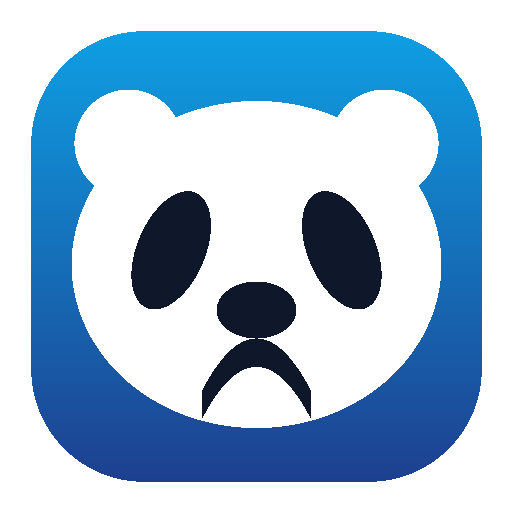
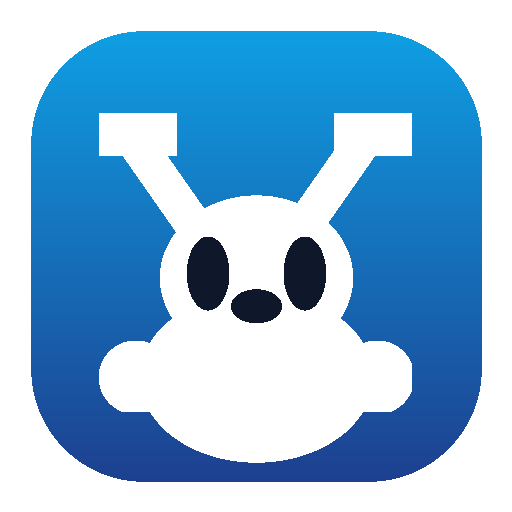
feat: design full sloth body hanging from menu bar top

Changed region(s): [[0.125, 0.1562, 0.875, 0.9062]]

diff --git a/electron/generate_icons.py b/electron/generate_icons.py
@@ -24,8 +24,8 @@ def create_png(width: int, height: int, rgba_bytes: bytes) -> bytes:
     png += chunk(b'IEND', b'')
     return png
 
-def draw_sloth_template(size: int) -> bytes:
-    """Draw a clean, cute sloth face template for macOS menu bar (black pixels + alpha)."""
+def draw_hanging_sloth_template(size: int) -> bytes:
+    """Draw a clean, cute full-body sloth hanging upside down from the top edge."""
     pixels = bytearray(size * size * 4)
     scale = size / 18.0
 
@@ -38,66 +38,83 @@ def draw_sloth_template(size: int) -> bytes:
             pixels[idx + 3] = alpha
 
     cx = size / 2.0 - 0.5
-    cy = size / 2.0
-    rx = 7.0 * scale
-    ry = 6.2 * scale
 
-    # Sloth head: rounded oval silhouette
+    # 1. Arms reaching up to corners (y=0..6)
+    for y in range(int(7 * scale)):
+        # Left arm diagonal
+        lx = int(2.0 * scale + y * 0.7)
+        for dx in range(int(2.4 * scale)):
+            set_pixel(lx + dx, y, 255)
+        # Right arm diagonal
+        rx = int(size - 3.0 * scale - y * 0.7)
+        for dx in range(int(2.4 * scale)):
+            set_pixel(rx - dx, y, 255)
+
+    # 2. Claws gripping the top edge (y=0..1)
+    for x in range(int(1.5 * scale), int(5.0 * scale)):
+        set_pixel(x, 0, 255)
+        set_pixel(x, 1, 255)
+    for x in range(int(size - 5.0 * scale), int(size - 1.5 * scale)):
+        set_pixel(x, 0, 255)
+        set_pixel(x, 1, 255)
+
+    # 3. Head in center (y=4..11)
     for y in range(size):
         for x in range(size):
-            dx = (x - cx) / rx
-            dy = (y - cy) / ry
+            dx = (x - cx) / (4.2 * scale)
+            dy = (y - 7.5 * scale) / (3.6 * scale)
             if dx * dx + dy * dy <= 1.0:
                 set_pixel(x, y, 255)
 
-    # Sloth ears: cute small bumps on top left and right
+    # 4. Body / belly hanging below head (y=9..16)
     for y in range(size):
         for x in range(size):
-            if math.hypot(x - (cx - 5.0 * scale), y - (cy - 4.5 * scale)) <= 2.0 * scale:
-                set_pixel(x, y, 255)
-            if math.hypot(x - (cx + 5.0 * scale), y - (cy - 4.5 * scale)) <= 2.0 * scale:
+            dx = (x - cx) / (5.0 * scale)
+            dy = (y - 12.8 * scale) / (3.8 * scale)
+            if dx * dx + dy * dy <= 1.0:
                 set_pixel(x, y, 255)
 
-    # Negative space cutouts:
-    # 1. Iconic sloth eye stripes (angled down-outwards)
+    # 5. Feet / hind limbs at sides (y=11..15)
+    for y in range(int(11 * scale), int(15 * scale)):
+        for x in range(int(1.5 * scale), int(4.5 * scale)):
+            if math.hypot(x - 3.5 * scale, y - 13.0 * scale) <= 1.8 * scale:
+                set_pixel(x, y, 255)
+        for x in range(int(size - 4.5 * scale), int(size - 1.5 * scale)):
+            if math.hypot(x - (size - 3.5 * scale), y - 13.0 * scale) <= 1.8 * scale:
+                set_pixel(x, y, 255)
+
+    # 6. Negative space cutouts (eye mask stripes, nose, armpit gaps)
     for y in range(size):
         for x in range(size):
-            # Left eye area
-            lx = x - (cx - 3.2 * scale)
-            ly = y - (cy - 0.5 * scale)
-            rot_lx = lx * math.cos(0.4) + ly * math.sin(0.4)
-            rot_ly = -lx * math.sin(0.4) + ly * math.cos(0.4)
-            if (rot_lx / (1.2 * scale)) ** 2 + (rot_ly / (2.2 * scale)) ** 2 <= 1.0:
+            # Left eye mask
+            lmx = x - (cx - 2.2 * scale)
+            lmy = y - (7.2 * scale)
+            if (lmx / (1.0 * scale)) ** 2 + (lmy / (1.8 * scale)) ** 2 <= 1.0:
                 set_pixel(x, y, 0)
 
-            # Right eye area
-            rx = x - (cx + 3.2 * scale)
-            ry = y - (cy - 0.5 * scale)
-            rot_rx = rx * math.cos(-0.4) + ry * math.sin(-0.4)
-            rot_ry = -rx * math.sin(-0.4) + ry * math.cos(-0.4)
-            if (rot_rx / (1.2 * scale)) ** 2 + (rot_ry / (2.2 * scale)) ** 2 <= 1.0:
+            # Right eye mask
+            rmx = x - (cx + 2.2 * scale)
+            rmy = y - (7.2 * scale)
+            if (rmx / (1.0 * scale)) ** 2 + (rmy / (1.8 * scale)) ** 2 <= 1.0:
                 set_pixel(x, y, 0)
 
-    # 2. Sloth nose
-    for y in range(size):
-        for x in range(size):
+            # Nose
             nx = x - cx
-            ny = y - (cy + 1.8 * scale)
-            if (nx / (1.5 * scale)) ** 2 + (ny / (1.0 * scale)) ** 2 <= 1.0:
+            ny = y - (8.8 * scale)
+            if (nx / (1.2 * scale)) ** 2 + (ny / (0.8 * scale)) ** 2 <= 1.0:
                 set_pixel(x, y, 0)
 
-    # 3. Smiling mouth
-    for y in range(size):
-        for x in range(size):
-            mx = x - cx
-            my = y - (cy + 3.4 * scale)
-            if abs(mx) <= 2.0 * scale and abs(my - 0.25 * (mx ** 2) / scale) <= 0.6 * scale:
-                set_pixel(x, y, 0)
+            # Armpit negative space
+            if 4.8 * scale <= y <= 7.0 * scale:
+                if (cx - 3.8 * scale <= x <= cx - 2.8 * scale) and y < 6.0 * scale:
+                    set_pixel(x, y, 0)
+                if (cx + 2.8 * scale <= x <= cx + 3.8 * scale) and y < 6.0 * scale:
+                    set_pixel(x, y, 0)
 
     return bytes(pixels)
 
 def draw_app_icon(size: int = 512) -> bytes:
-    """Draw a modern rounded app icon badge for macOS/Windows with cute sloth face."""
+    """Draw a modern rounded app icon badge for macOS with hanging sloth."""
     pixels = bytearray(size * size * 4)
     radius = size * 0.22
     margin = size * 0.06
@@ -130,52 +147,68 @@ def draw_app_icon(size: int = 512) -> bytes:
             b = int(233 + (138 - 233) * t)
             set_pixel(x, y, r, g, b, 255)
 
-    # Draw white sloth silhouette in center
+    # Draw full hanging sloth in center
     cx = size / 2.0
-    cy = size / 2.0 + 8
     scale = size / 36.0
-    rx = 13.0 * scale
-    ry = 11.5 * scale
 
+    # Arms
+    for y in range(int(10 * scale), int(18 * scale)):
+        lx = int(8.0 * scale + (y - 10 * scale) * 0.7)
+        for dx in range(int(3.2 * scale)):
+            set_pixel(lx + dx, y, 255, 255, 255, 255)
+        rx = int(size - 9.0 * scale - (y - 10 * scale) * 0.7)
+        for dx in range(int(3.2 * scale)):
+            set_pixel(rx - dx, y, 255, 255, 255, 255)
+
+    # Claws at top
+    for x in range(int(7.0 * scale), int(12.5 * scale)):
+        for y in range(int(8.0 * scale), int(11.0 * scale)):
+            set_pixel(x, y, 255, 255, 255, 255)
+    for x in range(int(size - 12.5 * scale), int(size - 7.0 * scale)):
+        for y in range(int(8.0 * scale), int(11.0 * scale)):
+            set_pixel(x, y, 255, 255, 255, 255)
+
+    # Head
     for y in range(size):
         for x in range(size):
-            dx = (x - cx) / rx
-            dy = (y - cy) / ry
+            dx = (x - cx) / (6.8 * scale)
+            dy = (y - 19.5 * scale) / (5.8 * scale)
             if dx * dx + dy * dy <= 1.0:
                 set_pixel(x, y, 255, 255, 255, 255)
-            # Ears
-            if math.hypot(x - (cx - 9.0 * scale), y - (cy - 8.5 * scale)) <= 3.8 * scale:
+
+    # Body
+    for y in range(size):
+        for x in range(size):
+            dx = (x - cx) / (8.2 * scale)
+            dy = (y - 26.5 * scale) / (6.0 * scale)
+            if dx * dx + dy * dy <= 1.0:
                 set_pixel(x, y, 255, 255, 255, 255)
-            if math.hypot(x - (cx + 9.0 * scale), y - (cy - 8.5 * scale)) <= 3.8 * scale:
+
+    # Feet
+    for y in range(int(24 * scale), int(29 * scale)):
+        for x in range(int(7 * scale), int(11 * scale)):
+            if math.hypot(x - 9.5 * scale, y - 26.5 * scale) <= 2.6 * scale:
+                set_pixel(x, y, 255, 255, 255, 255)
+        for x in range(int(size - 11 * scale), int(size - 7 * scale)):
+            if math.hypot(x - (size - 9.5 * scale), y - 26.5 * scale) <= 2.6 * scale:
                 set_pixel(x, y, 255, 255, 255, 255)
 
     # Sloth eye patches (dark blue-slate)
     for y in range(size):
         for x in range(size):
-            lx = x - (cx - 6.0 * scale)
-            ly = y - (cy - 1.0 * scale)
-            rot_lx = lx * math.cos(0.4) + ly * math.sin(0.4)
-            rot_ly = -lx * math.sin(0.4) + ly * math.cos(0.4)
-            if (rot_lx / (2.4 * scale)) ** 2 + (rot_ly / (4.4 * scale)) ** 2 <= 1.0:
+            lmx = x - (cx - 3.4 * scale)
+            lmy = y - (19.2 * scale)
+            if (lmx / (1.5 * scale)) ** 2 + (lmy / (2.6 * scale)) ** 2 <= 1.0:
                 set_pixel(x, y, 15, 23, 42, 255)
 
-            rx = x - (cx + 6.0 * scale)
-            ry = y - (cy - 1.0 * scale)
-            rot_rx = rx * math.cos(-0.4) + ry * math.sin(-0.4)
-            rot_ry = -rx * math.sin(-0.4) + ry * math.cos(-0.4)
-            if (rot_rx / (2.4 * scale)) ** 2 + (rot_ry / (4.4 * scale)) ** 2 <= 1.0:
+            rmx = x - (cx + 3.4 * scale)
+            rmy = y - (19.2 * scale)
+            if (rmx / (1.5 * scale)) ** 2 + (rmy / (2.6 * scale)) ** 2 <= 1.0:
                 set_pixel(x, y, 15, 23, 42, 255)
 
-            # Nose
             nx = x - cx
-            ny = y - (cy + 3.2 * scale)
-            if (nx / (2.8 * scale)) ** 2 + (ny / (2.0 * scale)) ** 2 <= 1.0:
-                set_pixel(x, y, 15, 23, 42, 255)
-
-            # Mouth
-            mx = x - cx
-            my = y - (cy + 6.2 * scale)
-            if abs(mx) <= 3.8 * scale and abs(my - 0.25 * (mx ** 2) / scale) <= 1.0 * scale:
+            ny = y - (21.5 * scale)
+            if (nx / (1.8 * scale)) ** 2 + (ny / (1.2 * scale)) ** 2 <= 1.0:
                 set_pixel(x, y, 15, 23, 42, 255)
 
     return bytes(pixels)
@@ -184,19 +217,19 @@ def main():
     assets_dir = Path(__file__).parent / "assets"
     assets_dir.mkdir(parents=True, exist_ok=True)
 
-    # 18x18 sloth trayTemplate.png
-    png18 = create_png(18, 18, draw_sloth_template(18))
+    # 18x18 full hanging sloth trayTemplate.png
+    png18 = create_png(18, 18, draw_hanging_sloth_template(18))
     (assets_dir / "trayTemplate.png").write_bytes(png18)
 
-    # 36x36 sloth trayTemplate@2x.png (Retina display)
-    png36 = create_png(36, 36, draw_sloth_template(36))
+    # 36x36 full hanging sloth trayTemplate@2x.png (Retina display)
+    png36 = create_png(36, 36, draw_hanging_sloth_template(36))
     (assets_dir / "trayTemplate@2x.png").write_bytes(png36)
 
     # 512x512 app icon
     png512 = create_png(512, 512, draw_app_icon(512))
     (assets_dir / "icon.png").write_bytes(png512)
 
-    print("Generated sloth trayTemplate.png (18x18), trayTemplate@2x.png (36x36), and icon.png (512x512) successfully.")
+    print("Generated full hanging sloth trayTemplate.png (18x18), trayTemplate@2x.png (36x36), and icon.png successfully.")
 
 if __name__ == "__main__":
     main()
